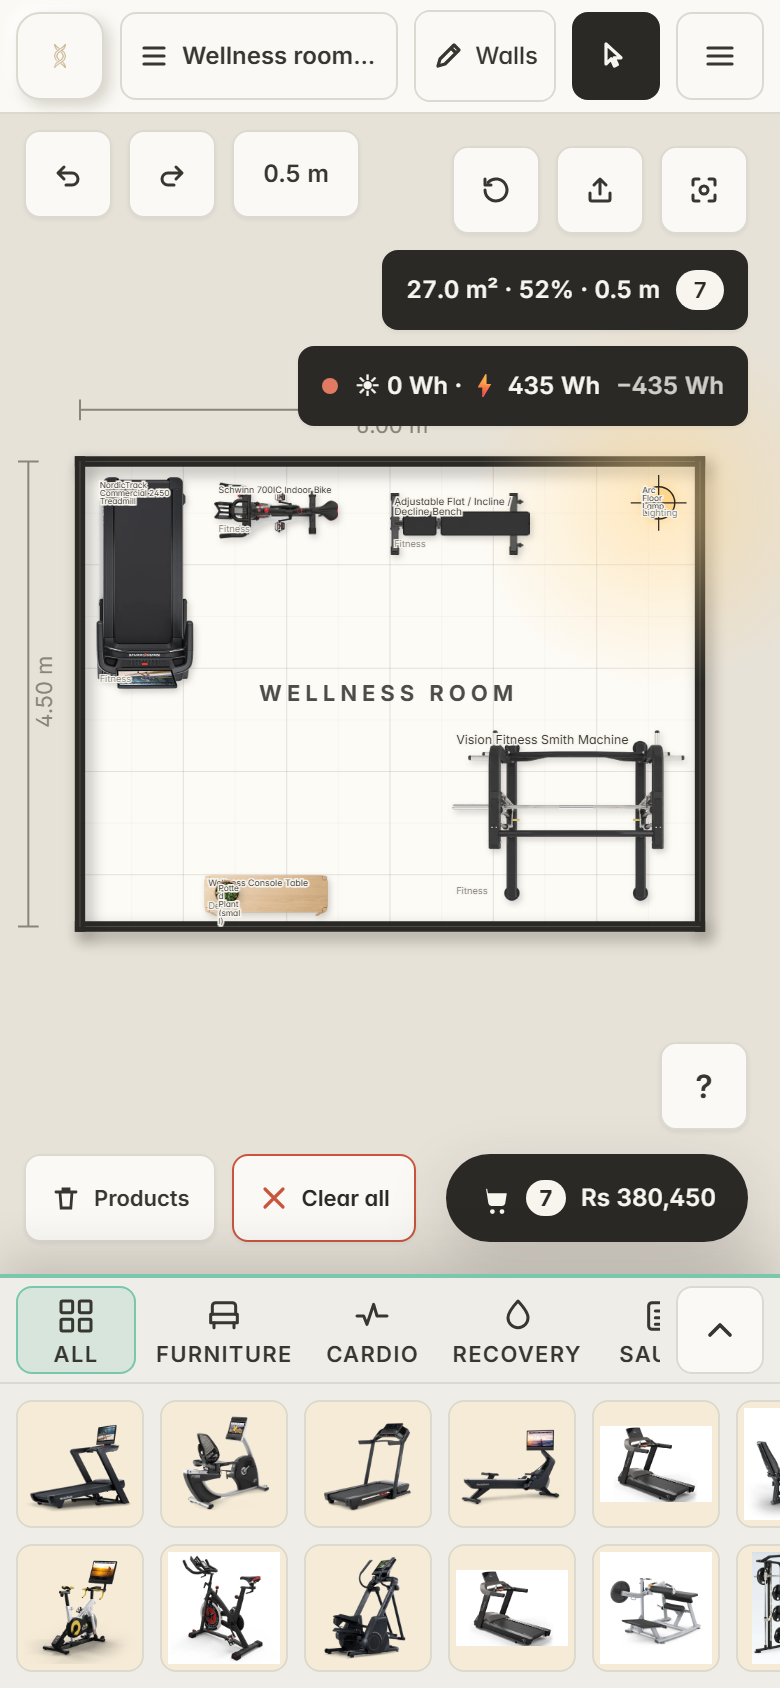
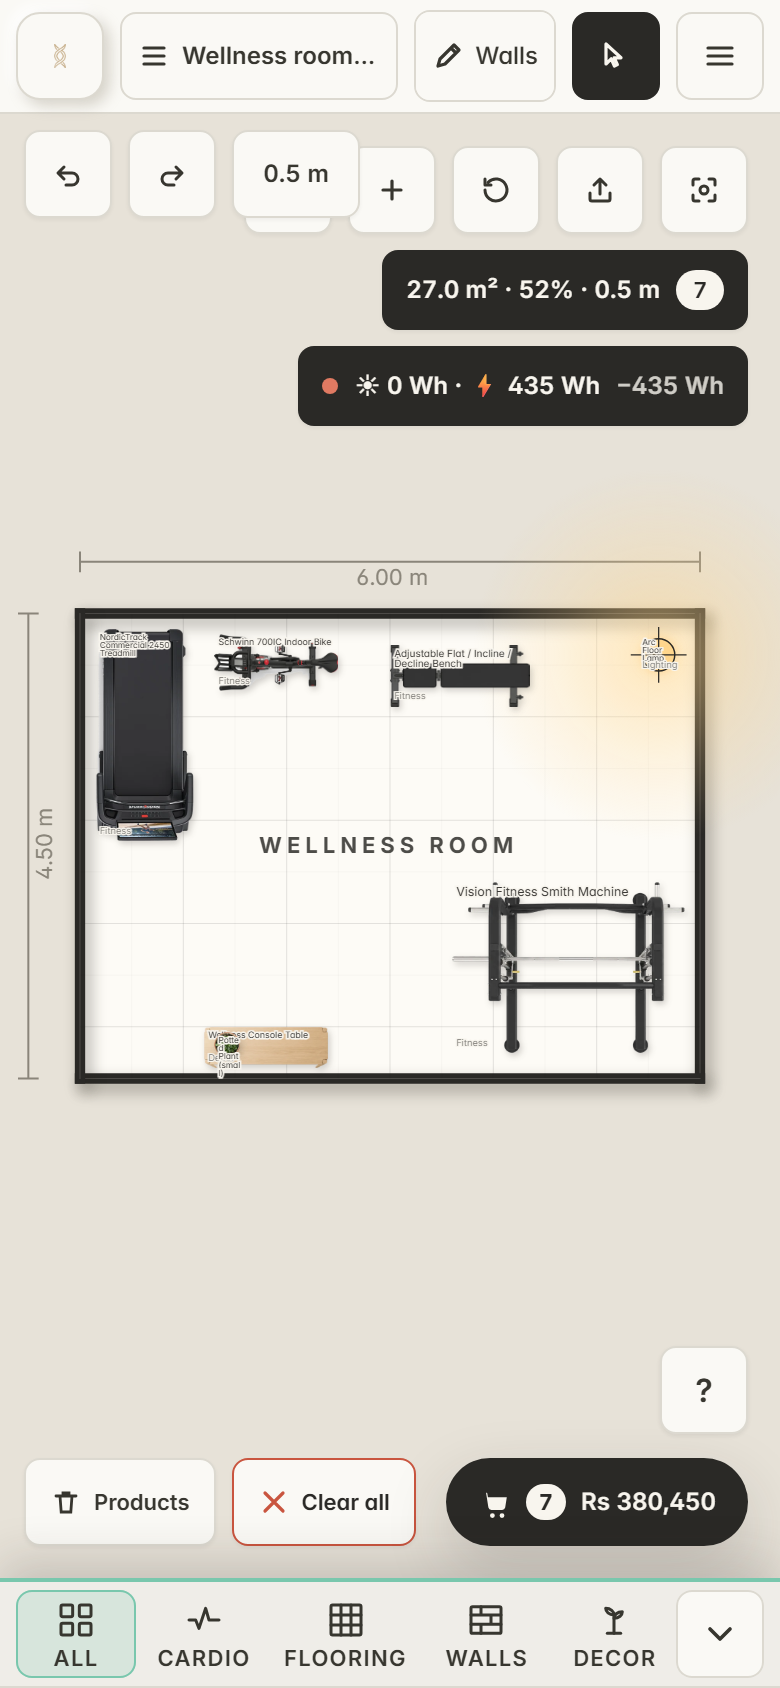
docs(pitch): phone frame re-shot on the phone-pass build (strip folded, more room on screen)
Captured from production 82bce81 with tools/pitch-captures-2026-09-07.mjs; webp via sharp q82.

diff --git a/docs/pitch-page-2026-09-07/site/index.html b/docs/pitch-page-2026-09-07/site/index.html
@@ -411,7 +411,7 @@
       </div>
       <div class="device phone" id="stage-phone" hidden>
         <div class="bar"><i></i><i></i><i></i><span>phone · 390 px</span></div>
-        <img src="img/phone-390.webp" width="780" height="1688" alt="The same room on a phone, with the catalogue toolbar along the bottom" loading="lazy">
+        <img src="img/phone-390.webp" width="780" height="1688" alt="The same room on a phone, with the catalogue folded to its category row along the bottom" loading="lazy">
       </div>
     </div>
 
